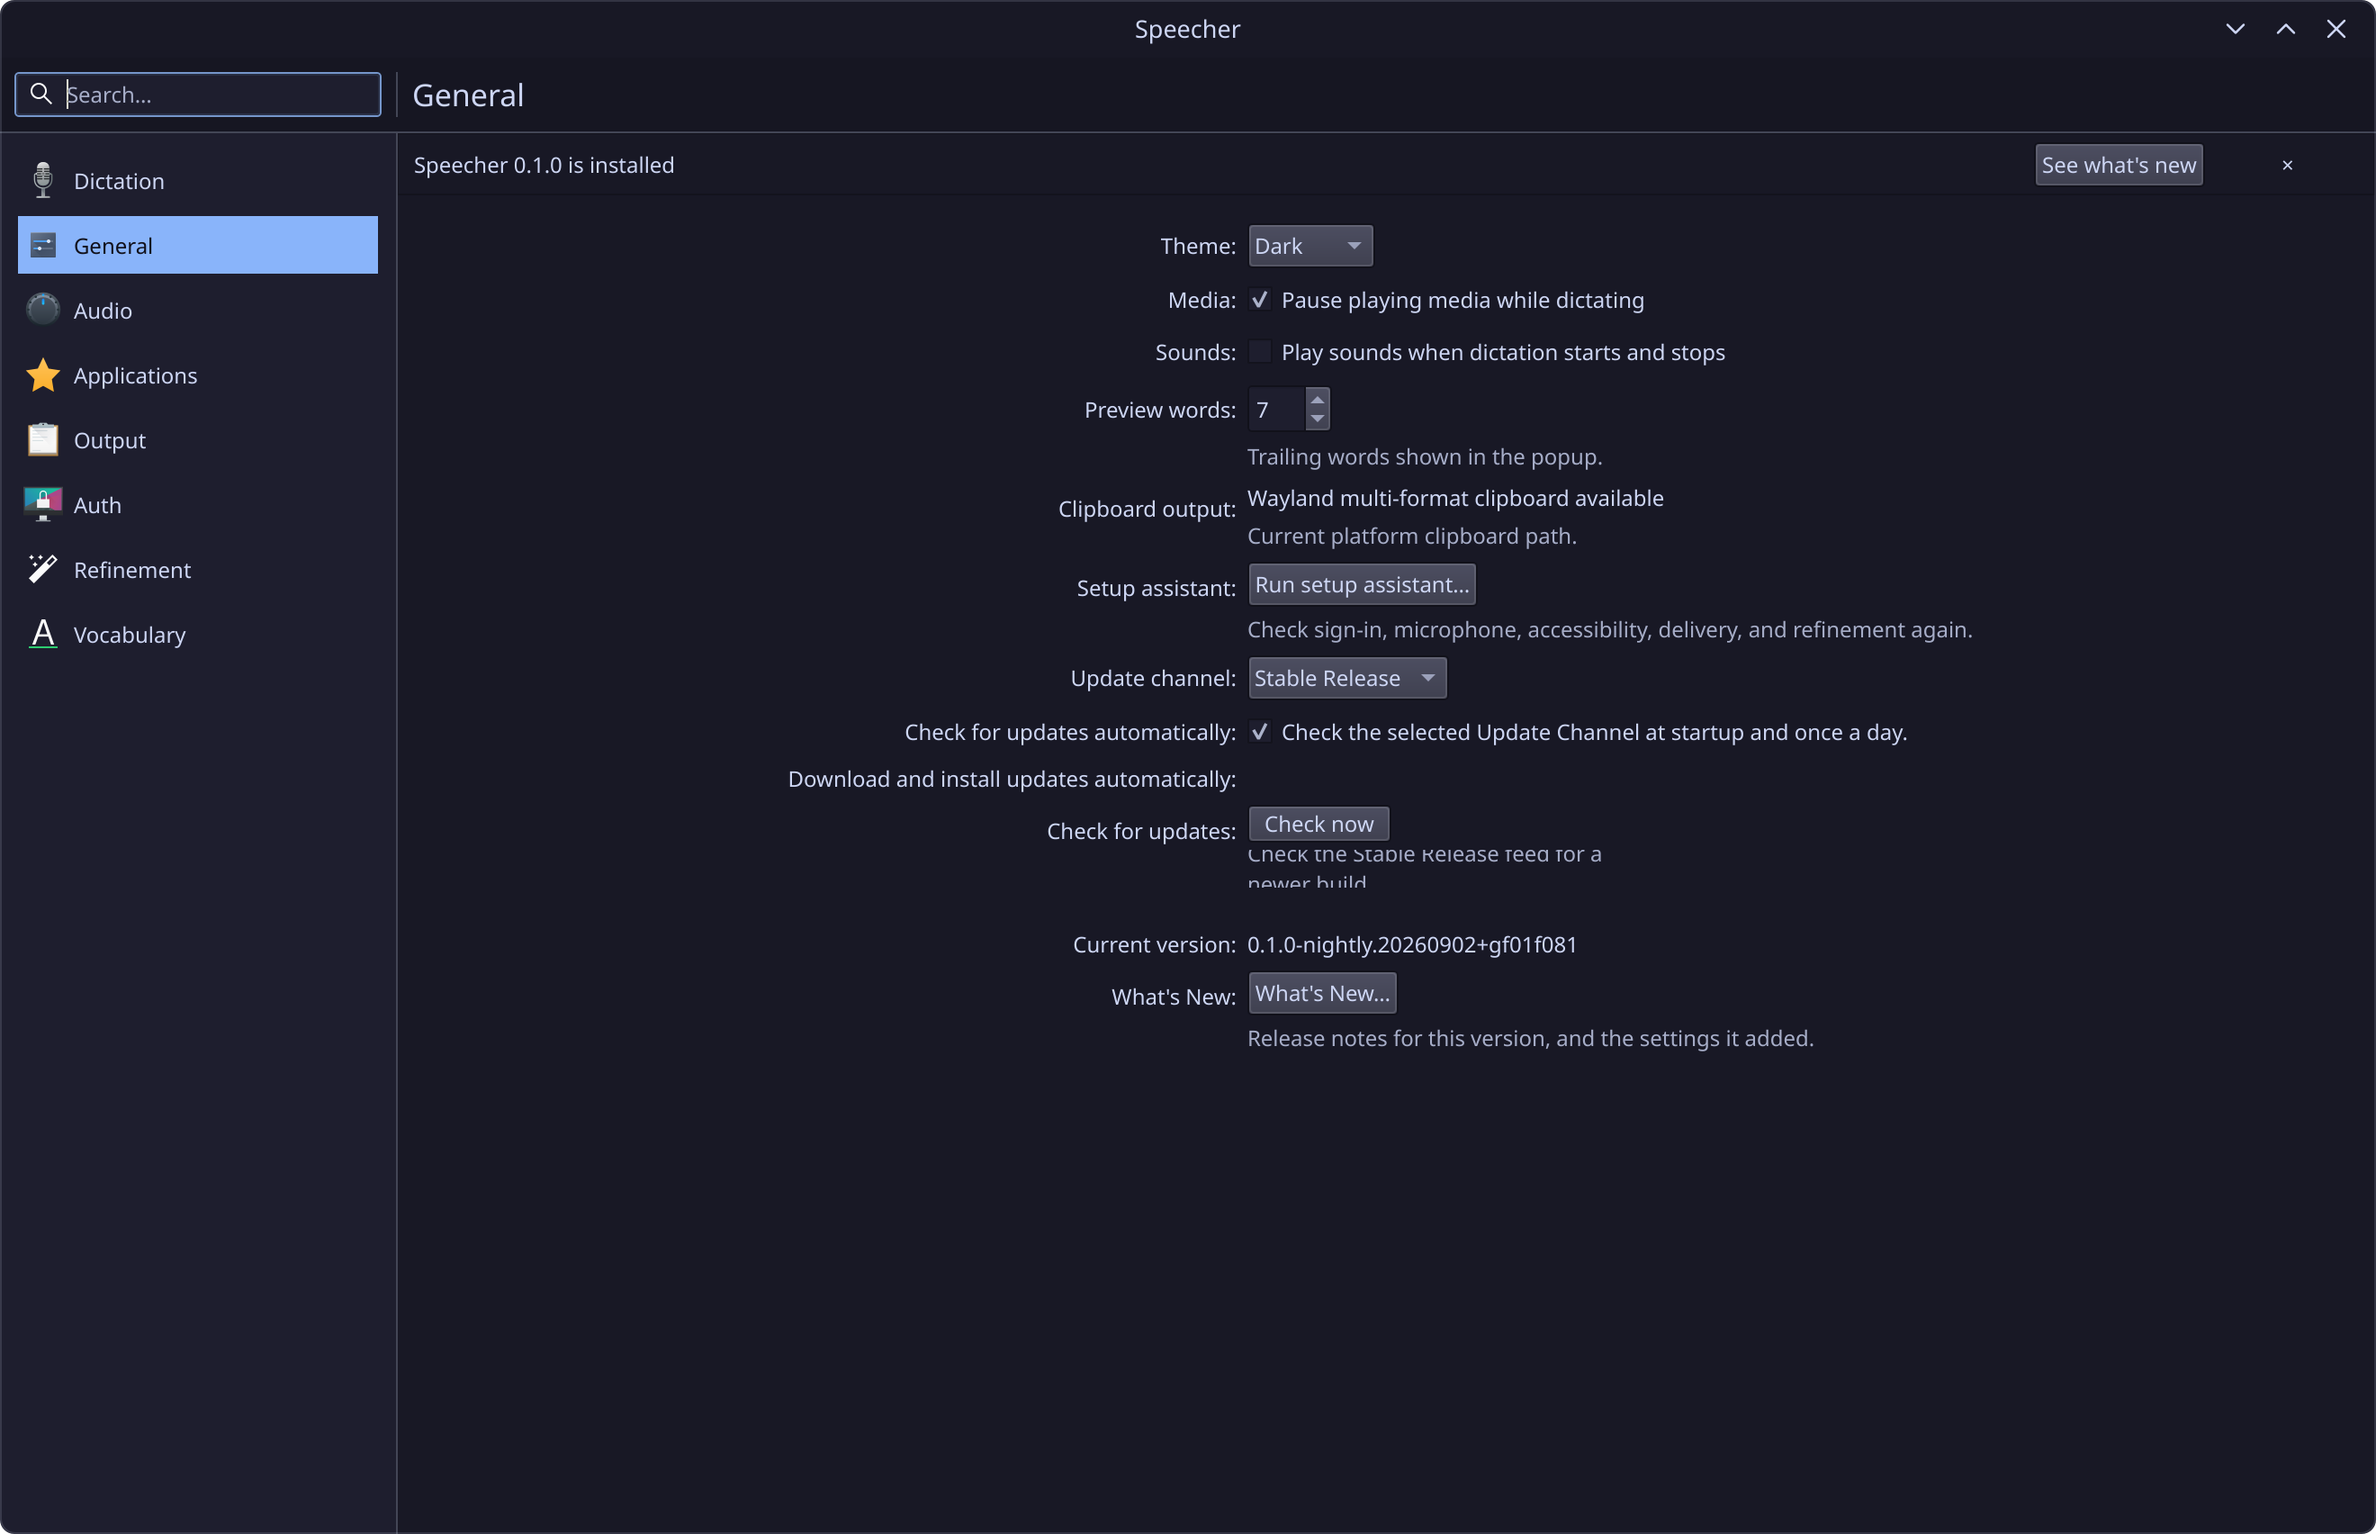
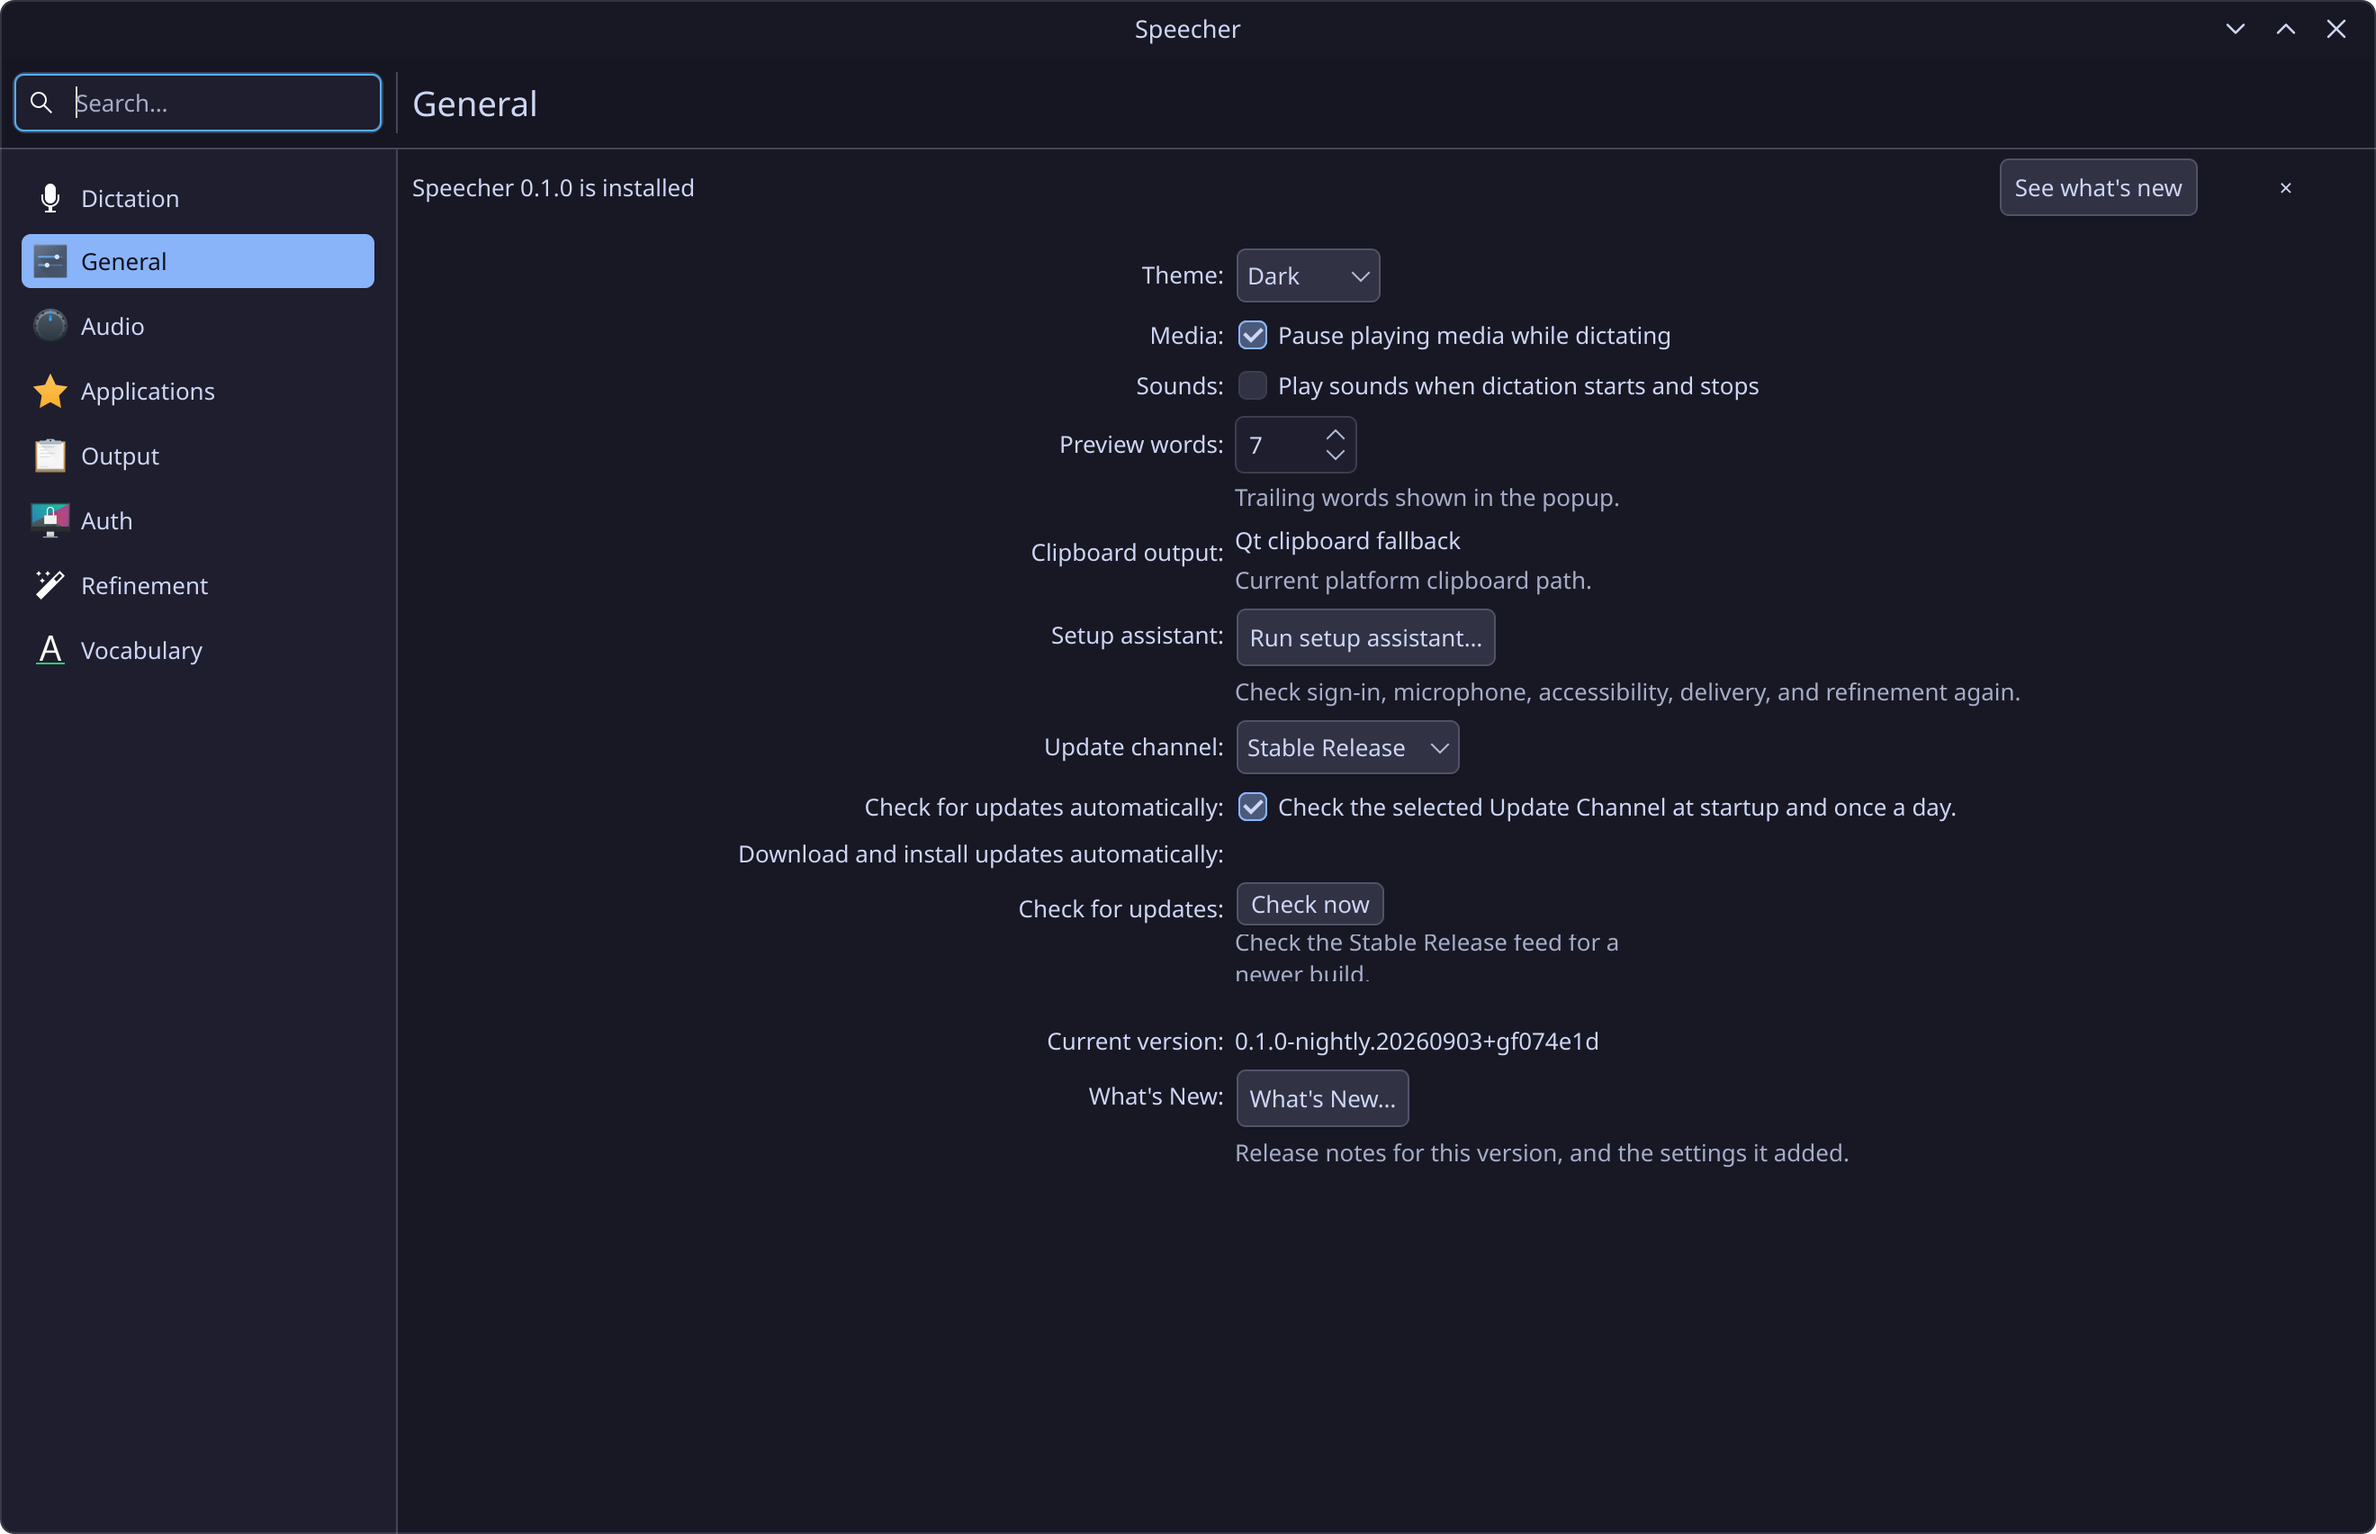
homepage: real Breeze widget style for the Catppuccin Linux screenshots
Harness rebuilt against system Qt 6.10 so the Breeze style plugin and
KF6ColorScheme load; same Mocha/Latte Blue schemes and painted titlebar.

diff --git a/index.html b/index.html
@@ -5,7 +5,7 @@
 <meta name="viewport" content="width=device-width, initial-scale=1">
 <title>Speecher · dictation for Linux and macOS on the subscriptions you already have</title>
 <meta name="description" content="Native speech-to-text for Linux and macOS. Press a shortcut, talk, and clean text lands in the app you're using. Runs on your existing Claude Code or ChatGPT login.">
-<link rel="icon" href="assets/icon.svg?v=10" type="image/svg+xml">
+<link rel="icon" href="assets/icon.svg?v=11" type="image/svg+xml">
 <style>
 :root{
   --paper:#f5f2e9; --card:#fffdf6; --ink:#1b1b17; --muted:#6d6c60; --line:#e2ddcd;
@@ -154,7 +154,7 @@ footer a{color:inherit}
 
 <header>
   <div class="wrap">
-    <a class="logo" href="#"><img src="assets/icon.svg?v=10" alt="">Speecher</a>
+    <a class="logo" href="#"><img src="assets/icon.svg?v=11" alt="">Speecher</a>
     <span class="spacer"></span>
     <nav>
       <a href="https://github.com/firemonster612/speecher">GitHub</a>
@@ -197,8 +197,8 @@ footer a{color:inherit}
     </div>
     <figure class="shot">
       <img data-shot
-        data-linux-light="assets/linux-general-light.png?v=10" data-linux-dark="assets/linux-general-dark.png?v=10"
-        data-mac-light="assets/mac-general-light.png?v=10" data-mac-dark="assets/mac-general-dark.png?v=10"
+        data-linux-light="assets/linux-general-light.png?v=11" data-linux-dark="assets/linux-general-dark.png?v=11"
+        data-mac-light="assets/mac-general-light.png?v=11" data-mac-dark="assets/mac-general-dark.png?v=11"
         alt="Speecher settings window" width="2640" height="1704">
     </figure>
     <p class="stagelede">Qt at home on Plasma. SwiftUI in the menu bar on macOS. Not a web view in a frame.</p>
@@ -230,8 +230,8 @@ footer a{color:inherit}
         shortcuts, so you bind one key to <code>speecher toggle</code> and you're done.</p>
     </div>
     <div class="shot"><img data-shot
-      data-linux-light="assets/linux-dictation-light.png?v=10" data-linux-dark="assets/linux-dictation-dark.png?v=10"
-      data-mac-light="assets/mac-dictation-light.png?v=10" data-mac-dark="assets/mac-dictation-dark.png?v=10"
+      data-linux-light="assets/linux-dictation-light.png?v=11" data-linux-dark="assets/linux-dictation-dark.png?v=11"
+      data-mac-light="assets/mac-dictation-light.png?v=11" data-mac-dark="assets/mac-dictation-dark.png?v=11"
       alt="Dictation page"></div>
   </section>
 
@@ -247,8 +247,8 @@ footer a{color:inherit}
         register the destination calls for.</b></p>
     </div>
     <div class="shot"><img data-shot
-      data-linux-light="assets/linux-refinement-light.png?v=10" data-linux-dark="assets/linux-refinement-dark.png?v=10"
-      data-mac-light="assets/mac-text-light.png?v=10" data-mac-dark="assets/mac-text-dark.png?v=10"
+      data-linux-light="assets/linux-refinement-light.png?v=11" data-linux-dark="assets/linux-refinement-dark.png?v=11"
+      data-mac-light="assets/mac-text-light.png?v=11" data-mac-dark="assets/mac-text-dark.png?v=11"
       alt="Refinement settings"></div>
   </section>
 
@@ -285,8 +285,8 @@ footer a{color:inherit}
         learned locally. <b>Fixing "at spy" to "AT-SPI" only ever happens once.</b></p>
     </div>
     <div class="shot"><img data-shot
-      data-linux-light="assets/linux-vocabulary-light.png?v=10" data-linux-dark="assets/linux-vocabulary-dark.png?v=10"
-      data-mac-light="assets/mac-vocabulary-light.png?v=10" data-mac-dark="assets/mac-vocabulary-dark.png?v=10"
+      data-linux-light="assets/linux-vocabulary-light.png?v=11" data-linux-dark="assets/linux-vocabulary-dark.png?v=11"
+      data-mac-light="assets/mac-vocabulary-light.png?v=11" data-mac-dark="assets/mac-vocabulary-dark.png?v=11"
       alt="Vocabulary settings"></div>
   </section>
 
